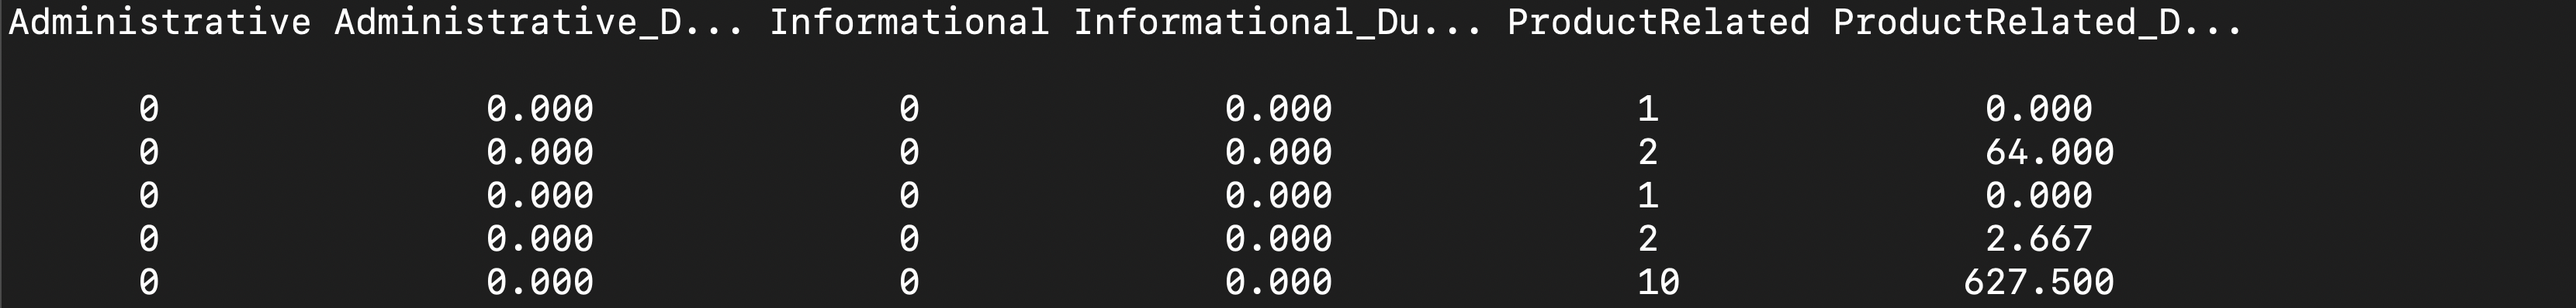
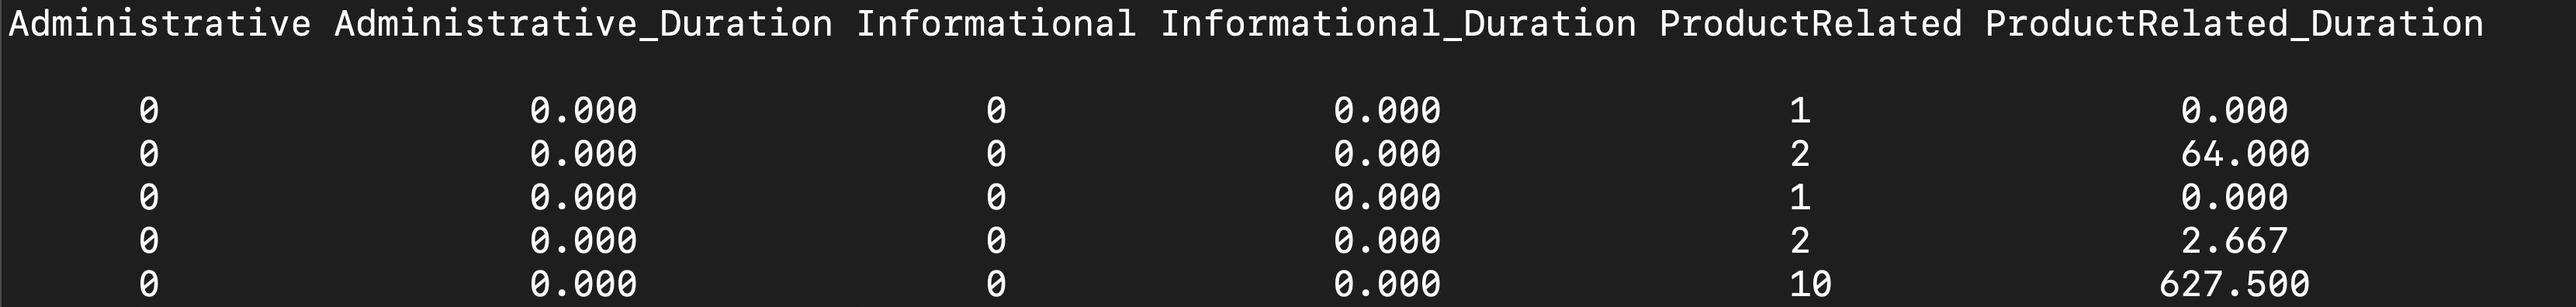
explore data updates

diff --git a/documentation/landingPage/shoppers_explore.py b/documentation/landingPage/shoppers_explore.py
@@ -37,7 +37,7 @@ featureNames = visits.features.getNames()
 # the site, based on the types of pages the visitor viewed.
 
 webActivityFts = featureNames[:6]
-print(visits[:4, webActivityFts].toString(maxWidth=120))
+print(visits[:4, webActivityFts].toString(maxWidth=120, maxColumnWidth=23))
 
 # The next 3 features are website analytics collected during the visit
 
